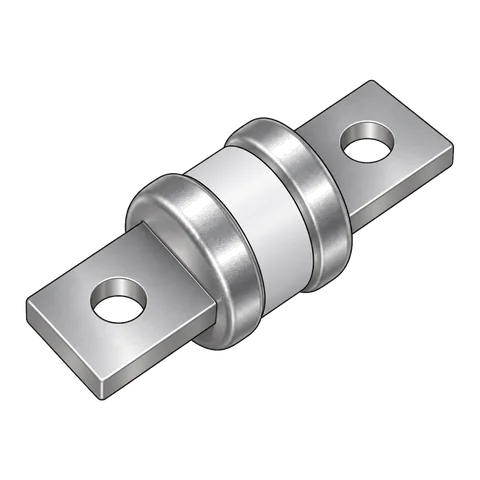
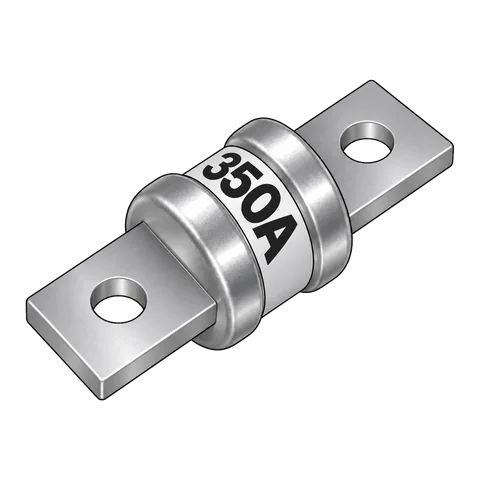
Einkaufsliste: Bild für Sicherung 350 A Klasse T mit 350A-Aufdruck

diff --git a/einkaufsliste.html b/einkaufsliste.html
@@ -106,7 +106,7 @@
         <div class="wrap">
           <h2>Sicherungen &amp; Halter</h2><p class="gruppe-text">Jede Leitung braucht ihre passende Sicherung.</p>
           <div class="teile-grid">
-            <article class="teil" id="l3a2c4132"><div class="teil-bild"><img src="assets/teile/l3a2c4132.webp?v=7906ca96" alt="MIDI-Sicherungshalter 4-fach mit Sammelschiene (Symbolbild)" width="480" height="480" loading="lazy"><span>Symbolbild</span></div><h3>MIDI-Sicherungshalter 4-fach mit Sammelschiene</h3><a class="product-btn" href="/go/l3a2c4132/amazon" target="_blank" rel="sponsored noopener">Bei Amazon ansehen*</a></article><article class="teil" id="l375ffab0"><div class="teil-bild"><img src="assets/teile/l375ffab0.webp?v=a38f9c33" alt="Sicherung 20 A MIDI (Symbolbild)" width="480" height="480" loading="lazy"><span>Symbolbild</span></div><h3>Sicherung 20 A MIDI</h3><a class="product-btn" href="/go/l375ffab0/amazon" target="_blank" rel="sponsored noopener">Bei Amazon ansehen*</a></article><article class="teil" id="laf25c308"><div class="teil-bild"><img src="assets/teile/laf25c308.webp?v=ab091605" alt="Sicherung 30 A MIDI (Symbolbild)" width="480" height="480" loading="lazy"><span>Symbolbild</span></div><h3>Sicherung 30 A MIDI</h3><a class="product-btn" href="/go/laf25c308/amazon" target="_blank" rel="sponsored noopener">Bei Amazon ansehen*</a></article><article class="teil" id="lafc8c0a5"><div class="teil-bild"><img src="assets/teile/lafc8c0a5.webp?v=e2af2a5c" alt="Sicherung 60 A MIDI (Symbolbild)" width="480" height="480" loading="lazy"><span>Symbolbild</span></div><h3>Sicherung 60 A MIDI</h3><a class="product-btn" href="/go/lafc8c0a5/amazon" target="_blank" rel="sponsored noopener">Bei Amazon ansehen*</a></article><article class="teil" id="l2a4fa993"><div class="teil-bild"><img src="assets/teile/l2a4fa993.webp?v=d04e5171" alt="Sicherung 80 A MIDI (Symbolbild)" width="480" height="480" loading="lazy"><span>Symbolbild</span></div><h3>Sicherung 80 A MIDI</h3><a class="product-btn" href="/go/l2a4fa993/amazon" target="_blank" rel="sponsored noopener">Bei Amazon ansehen*</a></article><article class="teil" id="l34955105"><div class="teil-bild"><img src="assets/teile/l34955105.webp?v=7470c8ed" alt="Sicherung 100 A MEGA (Symbolbild)" width="480" height="480" loading="lazy"><span>Symbolbild</span></div><h3>Sicherung 100 A MEGA</h3><a class="product-btn" href="/go/l34955105/amazon" target="_blank" rel="sponsored noopener">Bei Amazon ansehen*</a></article><article class="teil" id="l05bef916"><div class="teil-bild"><img src="assets/teile/l05bef916.webp?v=4ea3605b" alt="Sicherung 125 A MEGA (Symbolbild)" width="480" height="480" loading="lazy"><span>Symbolbild</span></div><h3>Sicherung 125 A MEGA</h3><a class="product-btn" href="/go/l05bef916/amazon" target="_blank" rel="sponsored noopener">Bei Amazon ansehen*</a></article><article class="teil" id="l0fc5cf12"><div class="teil-bild"><img src="assets/teile/l0fc5cf12.webp?v=c7ad8592" alt="Sicherung 150 A Klasse T (Symbolbild)" width="480" height="480" loading="lazy"><span>Symbolbild</span></div><h3>Sicherung 150 A Klasse T</h3><a class="product-btn" href="/go/l0fc5cf12/amazon" target="_blank" rel="sponsored noopener">Bei Amazon ansehen*</a></article><article class="teil" id="l9ac77371"><div class="teil-bild"><img src="assets/teile/l9ac77371.webp?v=2ceb6a5e" alt="Sicherung 150 A MEGA (Symbolbild)" width="480" height="480" loading="lazy"><span>Symbolbild</span></div><h3>Sicherung 150 A MEGA</h3><a class="product-btn" href="/go/l9ac77371/amazon" target="_blank" rel="sponsored noopener">Bei Amazon ansehen*</a></article><article class="teil" id="laf612964"><div class="teil-bild"><img src="assets/teile/laf612964.webp?v=8437ad65" alt="Sicherung 200 A MEGA (Symbolbild)" width="480" height="480" loading="lazy"><span>Symbolbild</span></div><h3>Sicherung 200 A MEGA</h3><a class="product-btn" href="/go/laf612964/amazon" target="_blank" rel="sponsored noopener">Bei Amazon ansehen*</a></article><article class="teil" id="l7317daa7"><div class="teil-bild"><img src="assets/teile/l7317daa7.webp?v=9c0c19fc" alt="Sicherung 225 A Klasse T (Symbolbild)" width="480" height="480" loading="lazy"><span>Symbolbild</span></div><h3>Sicherung 225 A Klasse T</h3><a class="product-btn" href="/go/l7317daa7/amazon" target="_blank" rel="sponsored noopener">Bei Amazon ansehen*</a></article><article class="teil" id="le561ec30"><div class="teil-bild"><img src="assets/teile/le561ec30.webp?v=99f95e50" alt="Sicherung 225 A MEGA (Symbolbild)" width="480" height="480" loading="lazy"><span>Symbolbild</span></div><h3>Sicherung 225 A MEGA</h3><a class="product-btn" href="/go/le561ec30/amazon" target="_blank" rel="sponsored noopener">Bei Amazon ansehen*</a></article><article class="teil" id="lfc280a8e"><div class="teil-bild"><img src="assets/teile/lfc280a8e.webp?v=1f402ada" alt="Sicherung 250 A Klasse T (Symbolbild)" width="480" height="480" loading="lazy"><span>Symbolbild</span></div><h3>Sicherung 250 A Klasse T</h3><a class="product-btn" href="/go/lfc280a8e/amazon" target="_blank" rel="sponsored noopener">Bei Amazon ansehen*</a></article><article class="teil" id="lb0905d3d"><div class="teil-bild"><img src="assets/teile/lb0905d3d.webp?v=b5d096d7" alt="Sicherung 250 A MEGA (Symbolbild)" width="480" height="480" loading="lazy"><span>Symbolbild</span></div><h3>Sicherung 250 A MEGA</h3><a class="product-btn" href="/go/lb0905d3d/amazon" target="_blank" rel="sponsored noopener">Bei Amazon ansehen*</a></article><article class="teil" id="l9b912eab"><div class="teil-bild"><img src="assets/teile/l9b912eab.webp?v=06b2e17e" alt="Sicherung 300 A MEGA (Symbolbild)" width="480" height="480" loading="lazy"><span>Symbolbild</span></div><h3>Sicherung 300 A MEGA</h3><a class="product-btn" href="/go/l9b912eab/amazon" target="_blank" rel="sponsored noopener">Bei Amazon ansehen*</a></article><article class="teil" id="lf3bb8b84"><div class="teil-bild"><img src="assets/teile/lf3bb8b84.webp?v=5cc62de4" alt="Sicherung 350 A Klasse T (Symbolbild)" width="480" height="480" loading="lazy"><span>Symbolbild</span></div><h3>Sicherung 350 A Klasse T</h3><a class="product-btn" href="/go/lf3bb8b84/amazon" target="_blank" rel="sponsored noopener">Bei Amazon ansehen*</a></article><article class="teil" id="lad38f99a"><div class="teil-bild"><img src="assets/teile/lad38f99a.webp?v=d82100f2" alt="Sicherung Klasse-T-Halter bis 200 A (Symbolbild)" width="480" height="480" loading="lazy"><span>Symbolbild</span></div><h3>Sicherung Klasse-T-Halter bis 200 A</h3><a class="product-btn" href="/go/lad38f99a/amazon" target="_blank" rel="sponsored noopener">Bei Amazon ansehen*</a></article><article class="teil" id="l50ed28ad"><div class="teil-bild"><img src="assets/teile/l50ed28ad.webp?v=d82100f2" alt="Sicherung Klasse-T-Sicherungshalter (Symbolbild)" width="480" height="480" loading="lazy"><span>Symbolbild</span></div><h3>Sicherung Klasse-T-Sicherungshalter</h3><a class="product-btn" href="/go/l50ed28ad/amazon" target="_blank" rel="sponsored noopener">Bei Amazon ansehen*</a></article><article class="teil" id="l4f0e743e"><div class="teil-bild"><img src="assets/teile/l4f0e743e.webp?v=aafb087d" alt="Sicherung MEGA-Sicherungshalter (Symbolbild)" width="480" height="480" loading="lazy"><span>Symbolbild</span></div><h3>Sicherung MEGA-Sicherungshalter</h3><a class="product-btn" href="/go/l4f0e743e/amazon" target="_blank" rel="sponsored noopener">Bei Amazon ansehen*</a></article><article class="teil" id="ld64c7f2d"><div class="teil-bild"><img src="assets/teile/ld64c7f2d.webp?v=f7b561c2" alt="Sicherung MIDI-Sicherungshalter (Symbolbild)" width="480" height="480" loading="lazy"><span>Symbolbild</span></div><h3>Sicherung MIDI-Sicherungshalter</h3><a class="product-btn" href="/go/ld64c7f2d/amazon" target="_blank" rel="sponsored noopener">Bei Amazon ansehen*</a></article>
+            <article class="teil" id="l3a2c4132"><div class="teil-bild"><img src="assets/teile/l3a2c4132.webp?v=7906ca96" alt="MIDI-Sicherungshalter 4-fach mit Sammelschiene (Symbolbild)" width="480" height="480" loading="lazy"><span>Symbolbild</span></div><h3>MIDI-Sicherungshalter 4-fach mit Sammelschiene</h3><a class="product-btn" href="/go/l3a2c4132/amazon" target="_blank" rel="sponsored noopener">Bei Amazon ansehen*</a></article><article class="teil" id="l375ffab0"><div class="teil-bild"><img src="assets/teile/l375ffab0.webp?v=a38f9c33" alt="Sicherung 20 A MIDI (Symbolbild)" width="480" height="480" loading="lazy"><span>Symbolbild</span></div><h3>Sicherung 20 A MIDI</h3><a class="product-btn" href="/go/l375ffab0/amazon" target="_blank" rel="sponsored noopener">Bei Amazon ansehen*</a></article><article class="teil" id="laf25c308"><div class="teil-bild"><img src="assets/teile/laf25c308.webp?v=ab091605" alt="Sicherung 30 A MIDI (Symbolbild)" width="480" height="480" loading="lazy"><span>Symbolbild</span></div><h3>Sicherung 30 A MIDI</h3><a class="product-btn" href="/go/laf25c308/amazon" target="_blank" rel="sponsored noopener">Bei Amazon ansehen*</a></article><article class="teil" id="lafc8c0a5"><div class="teil-bild"><img src="assets/teile/lafc8c0a5.webp?v=e2af2a5c" alt="Sicherung 60 A MIDI (Symbolbild)" width="480" height="480" loading="lazy"><span>Symbolbild</span></div><h3>Sicherung 60 A MIDI</h3><a class="product-btn" href="/go/lafc8c0a5/amazon" target="_blank" rel="sponsored noopener">Bei Amazon ansehen*</a></article><article class="teil" id="l2a4fa993"><div class="teil-bild"><img src="assets/teile/l2a4fa993.webp?v=d04e5171" alt="Sicherung 80 A MIDI (Symbolbild)" width="480" height="480" loading="lazy"><span>Symbolbild</span></div><h3>Sicherung 80 A MIDI</h3><a class="product-btn" href="/go/l2a4fa993/amazon" target="_blank" rel="sponsored noopener">Bei Amazon ansehen*</a></article><article class="teil" id="l34955105"><div class="teil-bild"><img src="assets/teile/l34955105.webp?v=7470c8ed" alt="Sicherung 100 A MEGA (Symbolbild)" width="480" height="480" loading="lazy"><span>Symbolbild</span></div><h3>Sicherung 100 A MEGA</h3><a class="product-btn" href="/go/l34955105/amazon" target="_blank" rel="sponsored noopener">Bei Amazon ansehen*</a></article><article class="teil" id="l05bef916"><div class="teil-bild"><img src="assets/teile/l05bef916.webp?v=4ea3605b" alt="Sicherung 125 A MEGA (Symbolbild)" width="480" height="480" loading="lazy"><span>Symbolbild</span></div><h3>Sicherung 125 A MEGA</h3><a class="product-btn" href="/go/l05bef916/amazon" target="_blank" rel="sponsored noopener">Bei Amazon ansehen*</a></article><article class="teil" id="l0fc5cf12"><div class="teil-bild"><img src="assets/teile/l0fc5cf12.webp?v=c7ad8592" alt="Sicherung 150 A Klasse T (Symbolbild)" width="480" height="480" loading="lazy"><span>Symbolbild</span></div><h3>Sicherung 150 A Klasse T</h3><a class="product-btn" href="/go/l0fc5cf12/amazon" target="_blank" rel="sponsored noopener">Bei Amazon ansehen*</a></article><article class="teil" id="l9ac77371"><div class="teil-bild"><img src="assets/teile/l9ac77371.webp?v=2ceb6a5e" alt="Sicherung 150 A MEGA (Symbolbild)" width="480" height="480" loading="lazy"><span>Symbolbild</span></div><h3>Sicherung 150 A MEGA</h3><a class="product-btn" href="/go/l9ac77371/amazon" target="_blank" rel="sponsored noopener">Bei Amazon ansehen*</a></article><article class="teil" id="laf612964"><div class="teil-bild"><img src="assets/teile/laf612964.webp?v=8437ad65" alt="Sicherung 200 A MEGA (Symbolbild)" width="480" height="480" loading="lazy"><span>Symbolbild</span></div><h3>Sicherung 200 A MEGA</h3><a class="product-btn" href="/go/laf612964/amazon" target="_blank" rel="sponsored noopener">Bei Amazon ansehen*</a></article><article class="teil" id="l7317daa7"><div class="teil-bild"><img src="assets/teile/l7317daa7.webp?v=9c0c19fc" alt="Sicherung 225 A Klasse T (Symbolbild)" width="480" height="480" loading="lazy"><span>Symbolbild</span></div><h3>Sicherung 225 A Klasse T</h3><a class="product-btn" href="/go/l7317daa7/amazon" target="_blank" rel="sponsored noopener">Bei Amazon ansehen*</a></article><article class="teil" id="le561ec30"><div class="teil-bild"><img src="assets/teile/le561ec30.webp?v=99f95e50" alt="Sicherung 225 A MEGA (Symbolbild)" width="480" height="480" loading="lazy"><span>Symbolbild</span></div><h3>Sicherung 225 A MEGA</h3><a class="product-btn" href="/go/le561ec30/amazon" target="_blank" rel="sponsored noopener">Bei Amazon ansehen*</a></article><article class="teil" id="lfc280a8e"><div class="teil-bild"><img src="assets/teile/lfc280a8e.webp?v=1f402ada" alt="Sicherung 250 A Klasse T (Symbolbild)" width="480" height="480" loading="lazy"><span>Symbolbild</span></div><h3>Sicherung 250 A Klasse T</h3><a class="product-btn" href="/go/lfc280a8e/amazon" target="_blank" rel="sponsored noopener">Bei Amazon ansehen*</a></article><article class="teil" id="lb0905d3d"><div class="teil-bild"><img src="assets/teile/lb0905d3d.webp?v=b5d096d7" alt="Sicherung 250 A MEGA (Symbolbild)" width="480" height="480" loading="lazy"><span>Symbolbild</span></div><h3>Sicherung 250 A MEGA</h3><a class="product-btn" href="/go/lb0905d3d/amazon" target="_blank" rel="sponsored noopener">Bei Amazon ansehen*</a></article><article class="teil" id="l9b912eab"><div class="teil-bild"><img src="assets/teile/l9b912eab.webp?v=06b2e17e" alt="Sicherung 300 A MEGA (Symbolbild)" width="480" height="480" loading="lazy"><span>Symbolbild</span></div><h3>Sicherung 300 A MEGA</h3><a class="product-btn" href="/go/l9b912eab/amazon" target="_blank" rel="sponsored noopener">Bei Amazon ansehen*</a></article><article class="teil" id="lf3bb8b84"><div class="teil-bild"><img src="assets/teile/lf3bb8b84.webp?v=9d013fbc" alt="Sicherung 350 A Klasse T (Symbolbild)" width="480" height="480" loading="lazy"><span>Symbolbild</span></div><h3>Sicherung 350 A Klasse T</h3><a class="product-btn" href="/go/lf3bb8b84/amazon" target="_blank" rel="sponsored noopener">Bei Amazon ansehen*</a></article><article class="teil" id="lad38f99a"><div class="teil-bild"><img src="assets/teile/lad38f99a.webp?v=d82100f2" alt="Sicherung Klasse-T-Halter bis 200 A (Symbolbild)" width="480" height="480" loading="lazy"><span>Symbolbild</span></div><h3>Sicherung Klasse-T-Halter bis 200 A</h3><a class="product-btn" href="/go/lad38f99a/amazon" target="_blank" rel="sponsored noopener">Bei Amazon ansehen*</a></article><article class="teil" id="l50ed28ad"><div class="teil-bild"><img src="assets/teile/l50ed28ad.webp?v=d82100f2" alt="Sicherung Klasse-T-Sicherungshalter (Symbolbild)" width="480" height="480" loading="lazy"><span>Symbolbild</span></div><h3>Sicherung Klasse-T-Sicherungshalter</h3><a class="product-btn" href="/go/l50ed28ad/amazon" target="_blank" rel="sponsored noopener">Bei Amazon ansehen*</a></article><article class="teil" id="l4f0e743e"><div class="teil-bild"><img src="assets/teile/l4f0e743e.webp?v=aafb087d" alt="Sicherung MEGA-Sicherungshalter (Symbolbild)" width="480" height="480" loading="lazy"><span>Symbolbild</span></div><h3>Sicherung MEGA-Sicherungshalter</h3><a class="product-btn" href="/go/l4f0e743e/amazon" target="_blank" rel="sponsored noopener">Bei Amazon ansehen*</a></article><article class="teil" id="ld64c7f2d"><div class="teil-bild"><img src="assets/teile/ld64c7f2d.webp?v=f7b561c2" alt="Sicherung MIDI-Sicherungshalter (Symbolbild)" width="480" height="480" loading="lazy"><span>Symbolbild</span></div><h3>Sicherung MIDI-Sicherungshalter</h3><a class="product-btn" href="/go/ld64c7f2d/amazon" target="_blank" rel="sponsored noopener">Bei Amazon ansehen*</a></article>
           </div>
         </div>
       </section>
